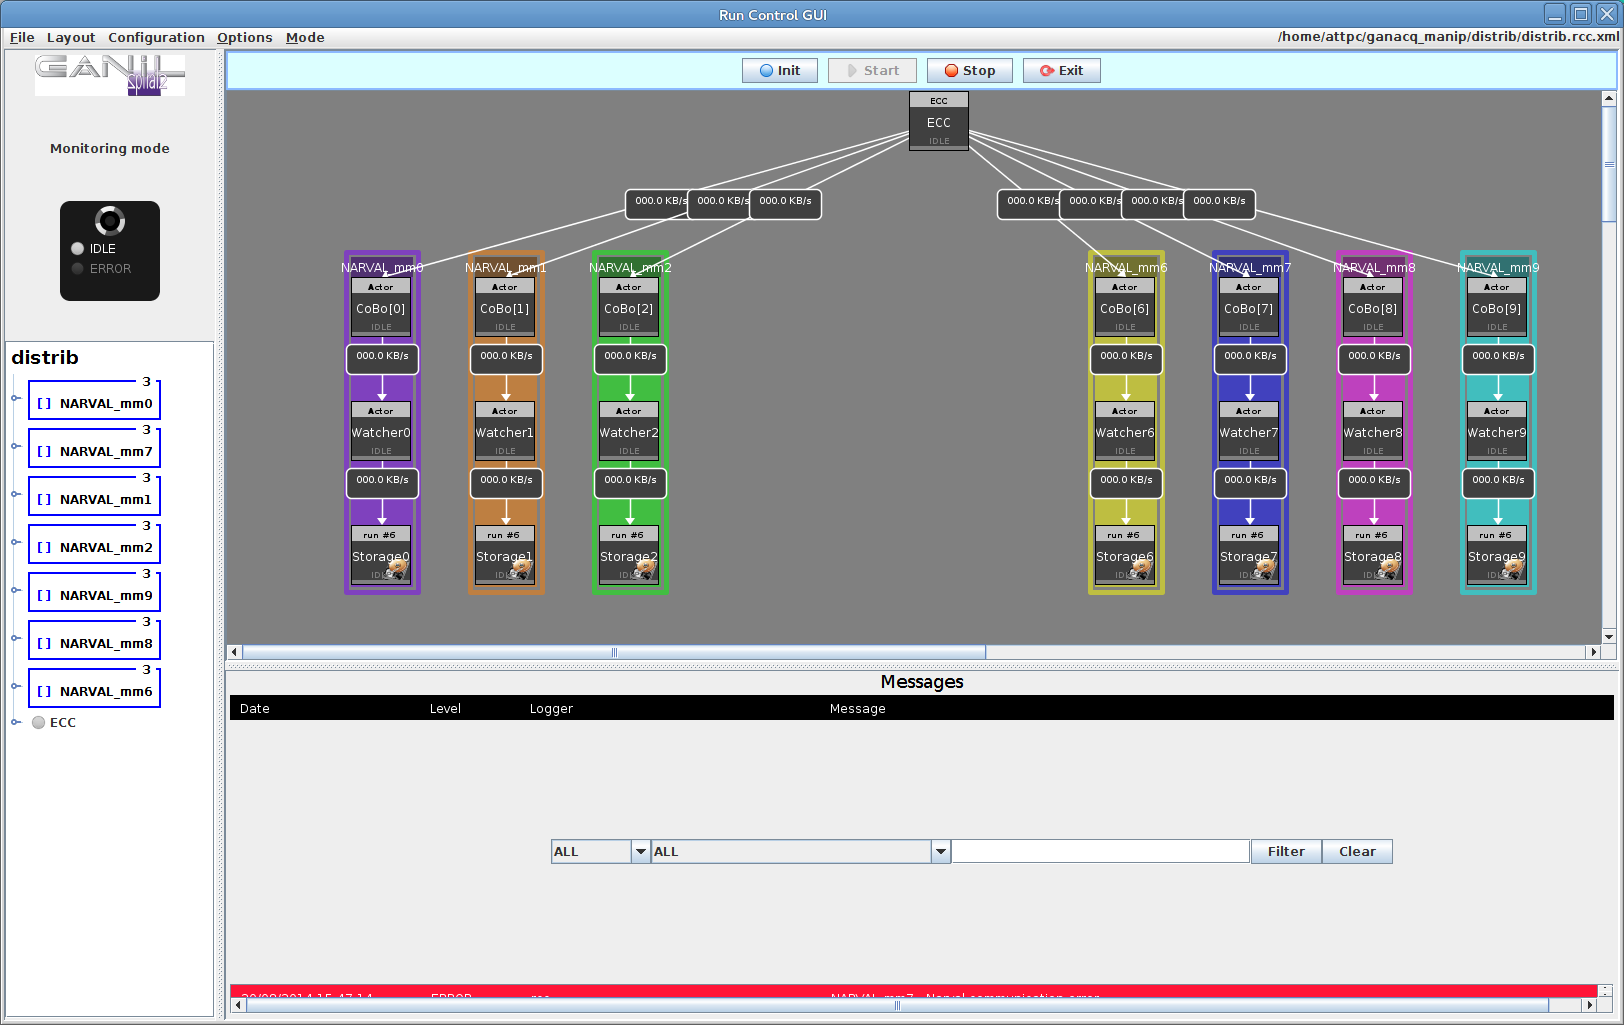
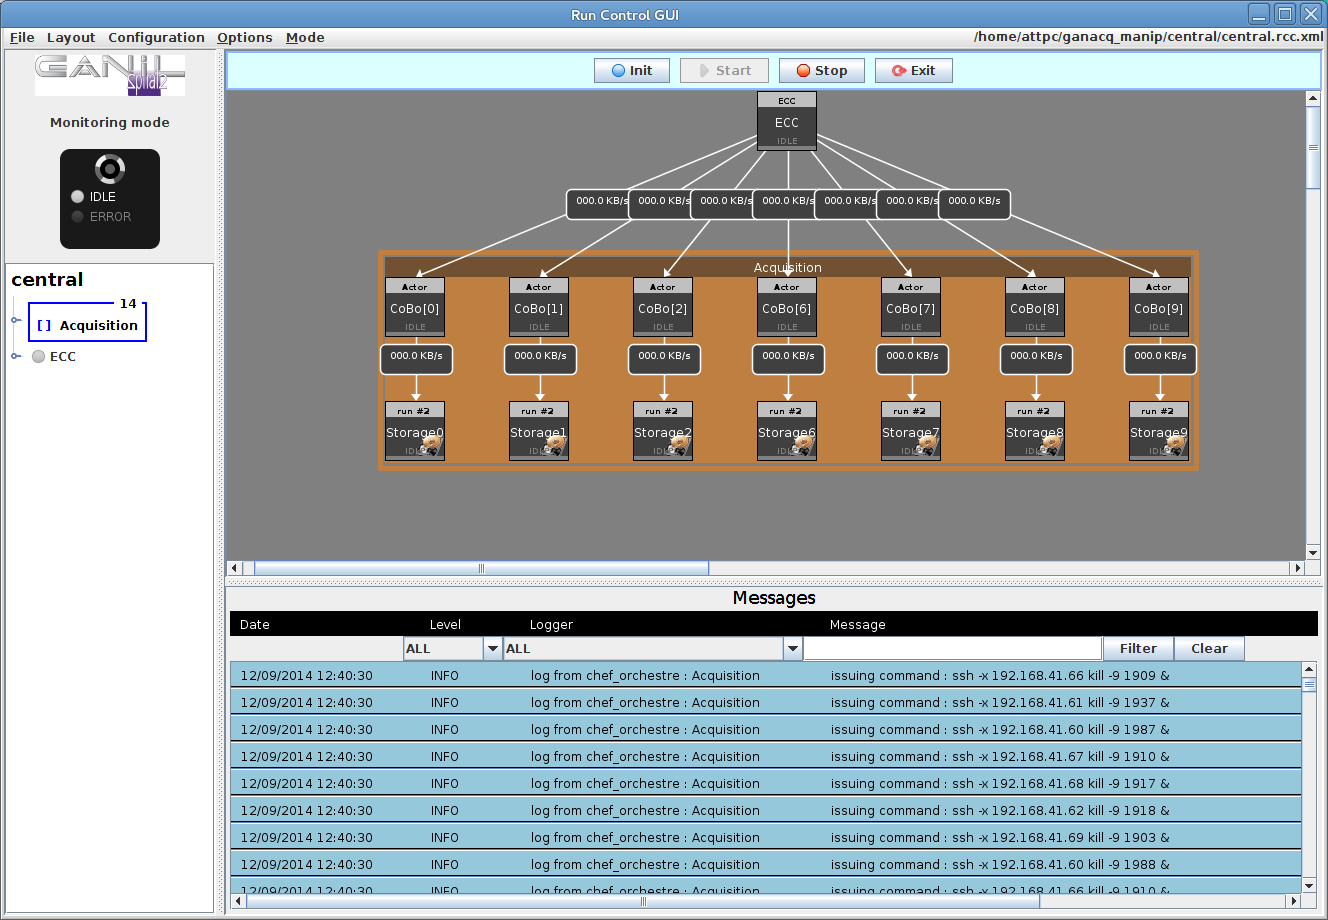
Updated documentation to reflect changes in experiment setup. Now we use one NARVAL subsystem instead of creating one for each CoBo.

diff --git a/source/exp_setup.rst b/source/exp_setup.rst
@@ -9,10 +9,6 @@ It takes a bit of work to set up an experiment the first time. The main tasks ar
   - Distribute this information to the Mac Minis
   
 Most of this can be done within the RCC GUI.
-
-..  warning::
-
-    Some of this information is a bit preliminary, and it could change in the near future if we discover a better way to configure the system.
     
 ..  note::
     
@@ -73,26 +69,21 @@ Once the RCC GUI window appears, we can start to describe the DAQ topology. Init
 
 ..  image:: images/empty_rccgui.png
 
-Adding NARVAL subsystems
-++++++++++++++++++++++++
+Adding a NARVAL subsystem
++++++++++++++++++++++++++
 
-Start by adding a NARVAL subsystem for each Mac Mini. Click on :guilabel:`Narval sub-systems` at the top of the window and then click :guilabel:`New` in the window that appears. Then fill in information for each subsystem as follows:
+Start by adding a NARVAL subsystem for the data acquisition. Click on :guilabel:`Narval sub-systems` at the top of the window and then click :guilabel:`New` in the window that appears. Then fill in the following information
 
 +----------------+-------------------------+
 |Item            | Value                   |
 +================+=========================+
-|Name            | :samp:`NARVAL{X}`       |
+|Name            | ``Acquisition``         |
 +----------------+-------------------------+
-|Hostname        | :samp:`192.168.41.6{X}` |
+|Hostname        | ``192.168.41.10``       |
 +----------------+-------------------------+
-|Coordinator CPU | :samp:`192.168.41.6{X}` |
+|Coordinator CPU | ``192.168.41.10``       |
 +----------------+-------------------------+
 
-Here, ``X`` is to be replaced with the index of the Mac Mini in question. Here is a completed window for ``mm0``:
-
-..  image:: images/new_narval_subsys.png
-
-Repeat this process for each Mac Mini.
 
 Adding components
 +++++++++++++++++
@@ -118,10 +109,10 @@ Next we need to add the components that collect data from each CoBo. Start by cl
 +------------------+----------------------------------+
 |Template file     | ``gnarval_mfm_catcher.template`` |
 +------------------+----------------------------------+
-|Narval sub-system | :samp:`NARVAL{X}`                |
+|Narval sub-system | ``Acquisition``                  |
 +------------------+----------------------------------+
 
-Again, replace the ``X`` with the index of the Mac Mini. The window should look like this (for ``mm0``):
+The window should look like this when filled in, except the :guilabel:`Narval sub-system` field should be automatically filled with the name of the subsystem you made in the first step:
 
 ..  image:: images/new_mfm_catcher.png
 
@@ -129,7 +120,7 @@ Again, replace the ``X`` with the index of the Mac Mini. The window should look 
     
     The name of the MFM catcher *must* match the name of a CoBo in the configuration files given to ECC server. Generally, the file calls the CoBos ``CoBo`` and then indexes them, hence ``CoBo[0]``, ``CoBo[1]`` etc. are appropriate names.
     
-Next, add a component of the type "MFM Narval Watcher actor". Fill in
+Optionally, add a component of the type "MFM Narval Watcher actor". Fill in
 
 +------------------+----------------------------------+
 |Item              | Value                            |
@@ -140,12 +131,12 @@ Next, add a component of the type "MFM Narval Watcher actor". Fill in
 +------------------+----------------------------------+
 |Log Level         | (any)                            |
 +------------------+----------------------------------+
-|Narval sub-system | :samp:`NARVAL{X}`                |
+|Narval sub-system | ``Acquisition``                  |
 +------------------+----------------------------------+
 
 And finally add a component of the type "MFM Narval Storage actor" with the same settings as the watcher actor, but with the name :samp:`Storage{X}`.
 
-Repeat this process for each Mac Mini.
+Repeat this process for each CoBo.
 
 Linking components
 ++++++++++++++++++
@@ -158,7 +149,7 @@ Click and drag from one component to another to add a link. The links between th
 
 ..  image:: images/link_ecc.png
 
-Note that I've selected ``eth1`` for both ports and added two zeros to the buffer size. The rest of the settings are the defaults.
+Note that I've selected ``eth1`` for both ports and added two zeros to the buffer size. The rest of the settings are the defaults. The name of the link is not important, but it must be unique.
 
 For links between NARVAL components, use these settings:
 
@@ -166,13 +157,10 @@ For links between NARVAL components, use these settings:
 
 This time, everything is left as the default except for the buffer size.
 
-When you've finished linking components, the setup should look something like this:
+When you've finished linking components, the layout should look something like this:
 
-..  image:: images/full_rccgui.png
+..  image:: images/complete_layout.png
 
-..  note::
-
-    I've used different names for the NARVAL subsystems in this image. It doesn't matter what they're called as long as it's meaningful and consistent. The only constraint is that each subsystem must have a unique name.
     
 Start and stop configurations
 -----------------------------
@@ -189,26 +177,14 @@ Now, choose :guilabel:`Configuration->Stop configuration` and arrange the compon
 Distributing the configuration to the Mac Minis
 -----------------------------------------------
 
-Now we need to trick the system into producing the NARVAL configuration files. Do this by clicking :guilabel:`Mode->Monitoring mode`. This puts the RCC server into a mode where it's ready to take commands, and it should also try to communicate with the NARVAL processes on the Mac Minis. 
-
-..  note::
-    
-    This will produce error messages if NARVAL is not running on the Mac Minis or ECC server is not running on the control computer. These messages can be ignored.
-    
-After waiting a moment, put the system back into :guilabel:`Editing mode`. 
-
-..  warning::
-
-    To be on the safe side, it is probably best to save and quit the DAQ system on the control computer before continuing. Do this by going back to the main menu and pressing :kbd:`tk Enter kall Enter`.
-    
-Now open a terminal and execute the following commands:
+Next, we need to run a script to create the data directories on the Mac Minis. Otherwise RCC will complain that it can't store data because the directories do not exist. To do this, open a terminal and execute the following commands:
 
 ..  code-block:: bash
 
     $ cd ~/ansible-attpc/distrib-experiment
     $ ansible-playbook distribute.yml -f 10 --extra-vars "exp_name=[experiment name]"
 
-Replace ``[experiment name]`` with the name of your experiment. This will sync the RCC and NARVAL configuration files to the Mac Minis. (This is described in more detail in :doc:`distrib-experiment`.)
+Replace ``[experiment name]`` with the name of your experiment. (This is described in more detail in :doc:`distrib-experiment`.)
 
 Once this finishes, you should be ready to take data.
     

diff --git a/source/taking_data.rst b/source/taking_data.rst
@@ -3,46 +3,18 @@ Taking data
 
 To take data with the system, we need to complete the following tasks:
 
-  - Launch NARVAL on each Mac Mini
   - Launch ECC server
   - Start and stop runs
   - Fetch data
   
 You should have already set up an experiment as described in :doc:`exp_setup` before continuing.
 
-Launching NARVAL on the Mac Minis
----------------------------------
+Launching ECC server and the Main Menu
+--------------------------------------
 
-..  note:: 
-    
-    This section is preliminary.
-    
-Open a terminal window and ssh into the first Mac Mini:
+The easiest way to do this is to run the script :file:`start_DAQ.sh` on the desktop of the control computer. This will open a terminal window with two tabs: one for ECC server and another for the main menu.
 
-..  code-block:: bash
-
-    $ ssh mm0
-    
-..  note::
-
-    The SSH config file should be set up to automatically provide X forwarding. If it isn't, then use the flags :option:`-XYC` with this command.
-    
-Once connected, open the main menu by executing
-
-..  code-block:: bash
-
-    $ start_ACQ [experiment name]
-    
-where ``[experiment name]`` is the name of your experiment. At the main menu, type :kbd:`tk Enter` to choose Toolkit and then type :kbd:`na Enter` to launch NARVAL.
-
-..  image:: images/toolkit.png
-
-Repeat this step for each Mac Mini in a new tab, keeping each SSH connection open.
-
-Launching ECC server
---------------------
-
-GET ECC server should be launched on the control computer. Open another terminal window and either run the script :file:`/daq/start_ecc_server.sh` or execute the commands
+To do this manually, start by opening a terminal window and running these commands:
 
 ..  code-block:: bash
 
@@ -54,12 +26,16 @@ GET ECC server should be launched on the control computer. Open another terminal
 
     The path given for :option:`--config-repo-url` should be whatever path contains the config files for the CoBos.
     
-Leave this running in the background.
+Leave this running in the background. Then, open the Main Menu in another terminal window by running 
+
+..  code-block:: bash
+
+    $ start_ACQ [experiment name]
 
 Preparing RCC GUI
 -----------------
 
-Open the main menu on the control computer and launch RCC server using :kbd:`rc Enter`. Once RCC GUI appears, go to :guilabel:`Mode -> Monitoring mode`. After a moment, all components should show that they are in the "Idle" state. 
+From the main menu, launch RCC server by typing :kbd:`rc Enter`. Once RCC GUI appears, go to :guilabel:`Mode -> Monitoring mode`. After a moment, all components should show that they are in the "Idle" state. 
 
 ..  image:: images/rcc_idle.png
 
@@ -94,7 +70,7 @@ Begin by pressing :guilabel:`Init`. This will take a while, and the progress can
 
 ..  note:: 
 
-    Once the NARVAL subsystems initialize, an :command:`xterm` window for each one will pop up on the screen. These can be minimized, but they must be left open. Also note that these are running on the Mac Minis, but are being shown on the control computer due to X forwarding.
+    Once the NARVAL subsystems initialize, an :command:`xterm` window for each one will pop up on the screen. These can be minimized, but they must be left open.
     
 Once initialization has finished, everything should show a "Ready" state (teal). 
 
@@ -106,9 +82,7 @@ Now we have to enable storage on each Mac Mini. Right-click on each Storage comp
 
     If you don't want to store data, there's no need to complete this step. This can be useful for checking to make sure everything is working before actually starting a data-taking run. 
     
-Now, click :guilabel:`Start` to start a run. If you've enabled storage, a window will pop up to take a comment for the run. This can be changed or left as the default. When everything is running, the window should look like this:
-
-..  image:: images/rcc_running.png
+Now, click :guilabel:`Start` to start a run. If you've enabled storage, a window will pop up to take a comment for the run. This can be changed or left as the default. When everything is running, the status indicator on each NARVAL actor should be green.
 
 To stop a run, click :guilabel:`Stop`. If you want to reset the system, click :guilabel:`Exit`.
 
@@ -128,6 +102,6 @@ These scripts are documented at :doc:`fetch-data` and :doc:`rearrange_data`. Aft
 Quitting the system
 -------------------
 
-To quit all of the components of the system, go to the terminal window hosting the main menu and type :kbd:`tk Enter` to get to the :guilabel:`Toolkit`. From there, type :kbd:`kall Enter` to kill all components of the system. From there, follow the prompts to exit the main menu. If NARVAL is open on the Mac Minis, the same method can be used to close it there.
+To quit all of the components of the system, go to the terminal window hosting the main menu and type :kbd:`tk Enter` to get to the :guilabel:`Toolkit`. From there, type :kbd:`kall Enter` to kill all components of the system. From there, follow the prompts to exit the main menu. 
 
 

diff --git a/source/distrib-experiment.rst b/source/distrib-experiment.rst
@@ -3,7 +3,7 @@
 :file:`distrib-experiment` -- Copies the DAQ experiment directory to the Mac Minis
 ==================================================================================
 
-This Ansible playbook syncs the given experiment directory to the Mac Minis. This should be done after any change to the configuration in RCC-GUI so that NARVAL can know about all of the components.
+This Ansible playbook syncs the given experiment directory to the Mac Minis. This should be done when a new experiment is created.
 
 The script can be run like this::
 
